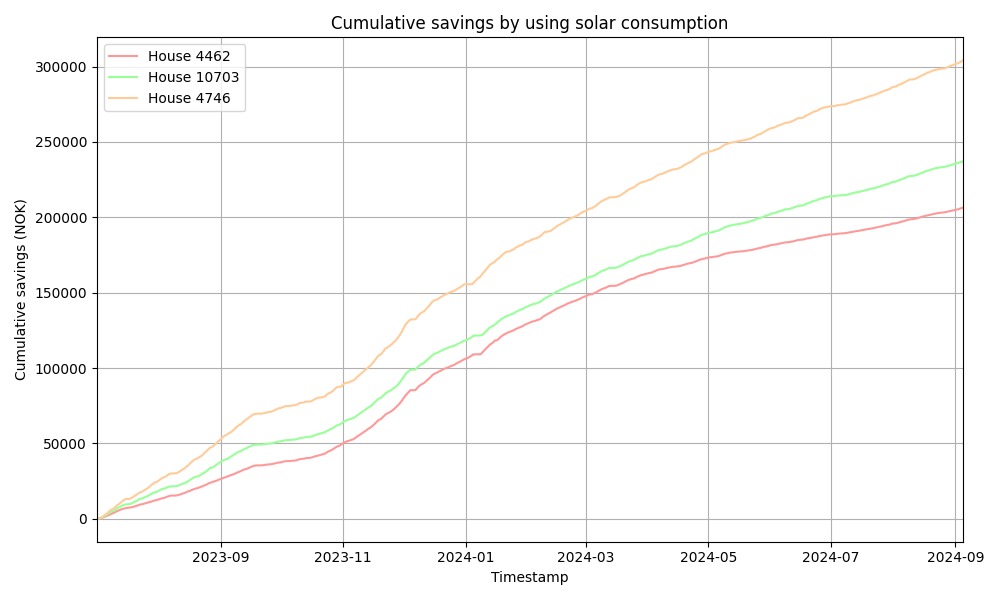
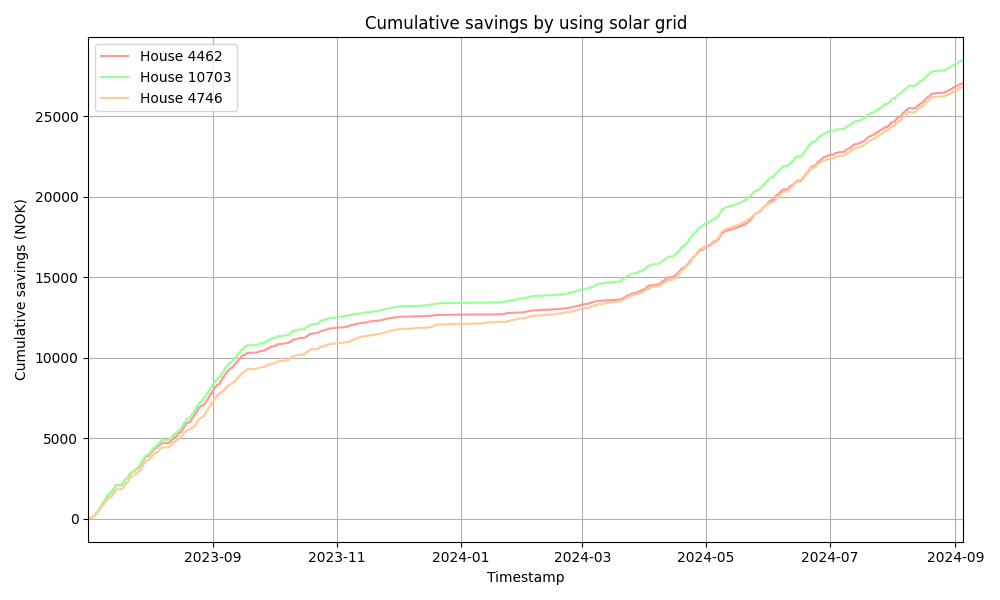
Fixed plotting

diff --git a/visualization/solarMoneySaving.py b/visualization/solarMoneySaving.py
@@ -48,14 +48,14 @@ buildingColors = {
 for house in houses:
     # Filter for each house and calculate cumulative savings
     house_df = merged_df[merged_df['property_id'] == house].copy()
-    house_df['cumulative_savings'] = house_df['savings'].cumsum()  # Cumulative sum of savings
+    house_df['cumulative_savings'] = house_df['solar_cost'].cumsum()  # Cumulative sum of savings
     
     # Plot cumulative savings
     plt.plot(house_df['Tidspunkt'], house_df['cumulative_savings'], 
              label=f'House {house}',
              color=buildingColors.get(house, '#333333'))
 
-plt.title('Cumulative savings by using solar consumption')
+plt.title('Cumulative savings by using solar grid')
 plt.ylabel('Cumulative savings (NOK)')
 plt.xlabel('Timestamp')
 # Set the time range for the plot
